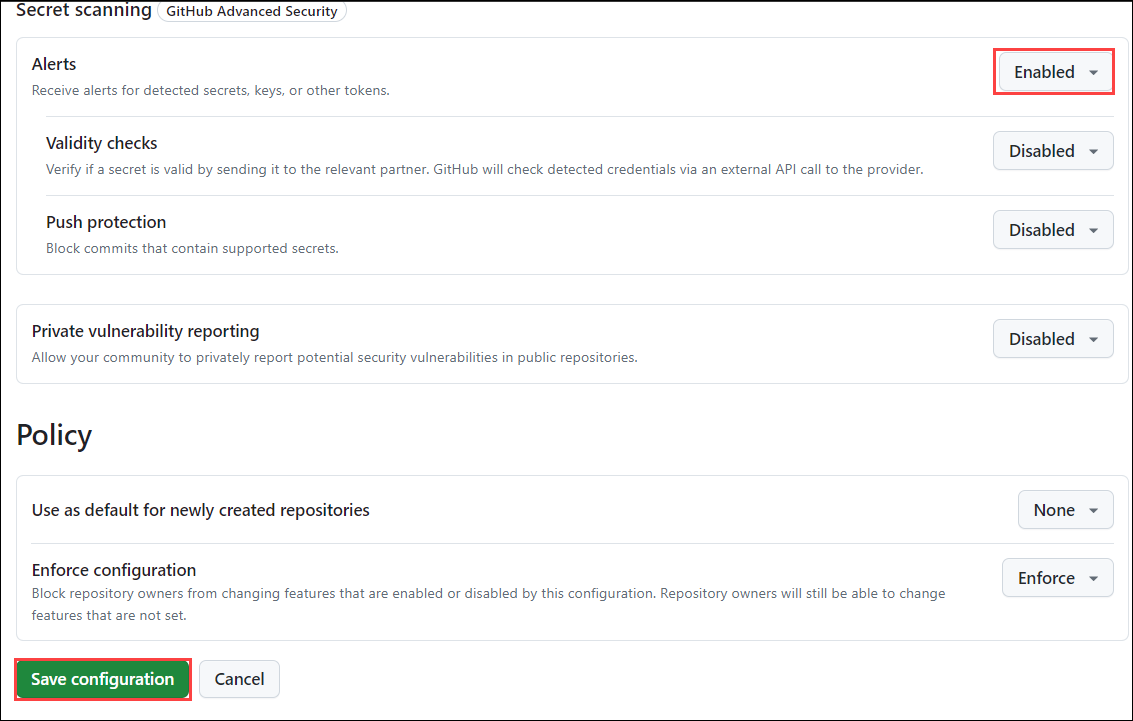
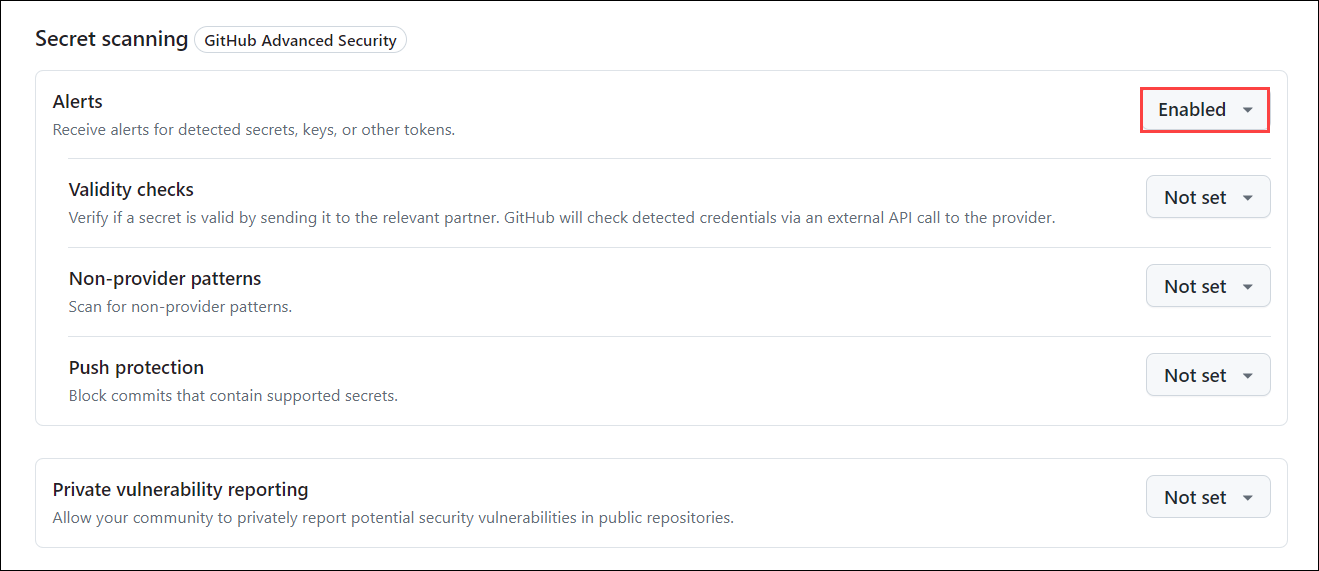
update

diff --git a/Module2-SecretScanning.md b/Module2-SecretScanning.md
@@ -58,7 +58,13 @@ Secret scanning automatically scans your entire Git history on all branches pres
 
    ![Code Security Configurations](./images/mod1org5.png)
 
-8. Scroll down to the **Secret Scanning** section and enable the **Alerts** option. You may also adjust other settings according to your requirements. Finally, click** `**Save Configurations** to apply your changes.
+8. Scroll down to the **Secret Scanning** section. You'll find that all options are enabled by default. However, you have the flexibility to adjust these settings. You can modify the options to **Enable**, **Disable**, or leave them as **Not set** based on our requirements or preferences.
+
+   ![Code Security Configurations](./images/mod1org6a.png)
+
+   ![Code Security Configurations](./images/mod1org6b.png)   
+
+9. Leave the **Alerts** option set to **Enable**, and change the remaining options to **Not set**. Finally, click **Save Configurations** to apply your changes.
 
    ![Code Security Configurations](./images/mod1org6.png)
 
@@ -98,7 +104,7 @@ In this lab, Personal Access Tokens (PATs) are used as example secrets to demons
 
    ![Picture1](./images/developersetting.png)
 
-1. Give your secret a name **Secret scanning**, and set the **Expiration** to **_"Custom..."_** and select the next calendar day. By default, no permissions are granted, so scroll to the bottom and click on **Generate token**. Once you've generated the token, click the **"Copy"** icon to the right of the secret value.
+1. Give your secret a name **Secret01**, and set the **Expiration** to **_"Custom..."_** and select the next calendar day. By default, no permissions are granted, so scroll to the bottom and click on **Generate token**. Once you've generated the token, click the **"Copy"** icon to the right of the secret value.
 
    ![new personal acess token](images/PATtoken.png)
 
@@ -286,13 +292,13 @@ In this task, you will create and apply a custom secret pattern to detect specif
    
 ## Task 4: Understanding the results 
 
-In this task, we delve into comprehending the outcomes of secret scanning.
+In this task, we delved into comprehending the outcomes of secret scanning.
 
 1. We navigated through the repository's findings and demonstrated how secret scanning identifies potential vulnerabilities, followed by a practical demonstration of adding a GitHub Personal Access Token (PAT) to the codebase to exemplify active secret detection.
 
-1. After identifying active secrets, we discuss the significance of validity checks in prioritizing remediation efforts.
+1. After identifying active secrets, we discussed the significance of validity checks in prioritizing remediation efforts.
 
-1. Next, we enable push protection in the **ghas-bootcamp-javascript** repository and simulate attempting to push a new secret.
+1. Next, we enabled push protection in the **ghas-bootcamp-javascript** repository and simulated attempting to push a new secret.
 
 1. We created custom secret patterns to uncover specific types of sensitive information.
 

diff --git a/Module3-Software_Composition_Analysis.md b/Module3-Software_Composition_Analysis.md
@@ -65,7 +65,7 @@ The process involves adding all dependencies from a repository to the dependency
        
    ![github-advisory-database](images/mavendevices.png)
 
-1. Click the pencil icon at the top-right of the code block to edit it **add an extra space in last**. click on Commit changes.
+1. Click the pencil icon at the top-right of the code block to edit it **Add a space to the end of the file.**. click on Commit changes.
 
    ![github-advisory-database](images/mavendevicescomit.png)
 
@@ -97,11 +97,11 @@ The dependency review action is a GitHub Action designed for this purpose, preve
 
 1. In the **`ghas-bootcamp-webgoat`** repository, go to the **`.github/workflows/dependency-review.yml`** file. Click on the **...** (ellipsis) icon and select **Delete File**.
 
-    ![github-advisory-database](images/g2.1new.png)
+   ![github-advisory-database](images/g2.1new.png)
 
    > **Note:** We are deleting the existing file to avoid conflicts when creating a new file with the same name. Deleting the existing file first ensures a smooth process.
 
-1. Click on **Commit Changes** (1), and then click **Commit Changes** (2) once again in the pop-up that appears.
+1. Click on **Commit Changes (1)**, and then click **Commit Changes (2)** once again in the pop-up that appears.
 
     ![github-advisory-database](images/g2.1new1.png)
 
